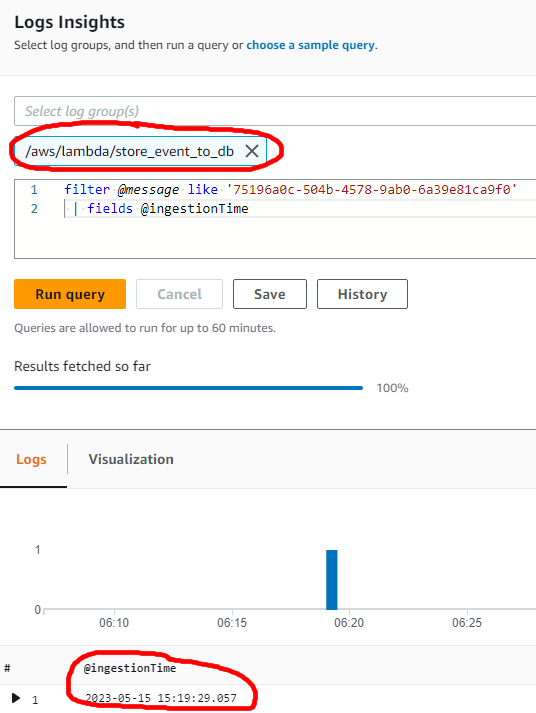
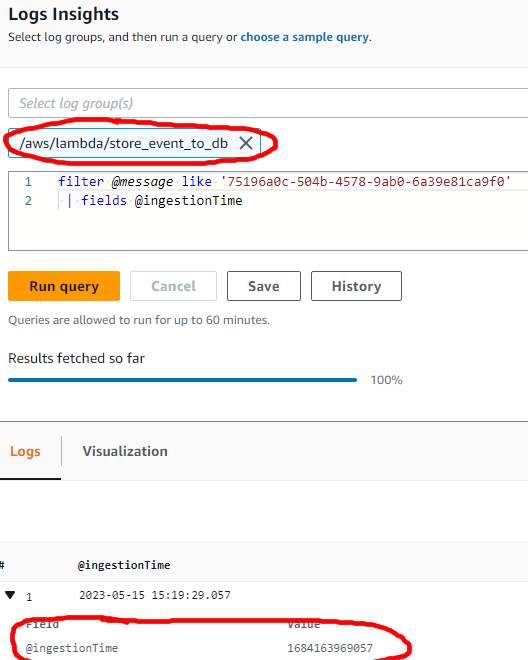
changes

diff --git a/Homework 9. Observability. Logs, metrics, alerts/observability.md b/Homework 9. Observability. Logs, metrics, alerts/observability.md
@@ -4,14 +4,25 @@
 
 ## Deliveries
 
-1. Find logs in each of three functions related to the same request
+### Find logs in each of three functions related to the same request
 
-(./1_get_ingest_event_requestId.png)
+1. Get *requestId* from the *ingest_event* function logs
+![](1_get_ingest_event_requestId.png)
 
-2. Find built-in metrics that might help you to understand Event Stream performance
+2. Find *ingestionTime* from *store_event* function log records with *message* containing the same *requestId*
+![](2_get_store_event_to_db_ingestionTime.png)
+
+3. Get the *store_event* function log records for given *ingestionTime*
+![](3_get_store_event_to_db_log.png)
+
+4. Do 2 and 3 steps for the *store_event_to_s3* function:
+![](4_get_store_event_to_s3_ingestionTime.png)
+![](5_get_store_event_to_s3_log.png)
+
+### Find built-in metrics that might help you to understand Event Stream performance
 
 
-3. Compare average execution time of functions that read from Event Stream
+### Compare average execution time of functions that read from Event Stream
 
 
 
